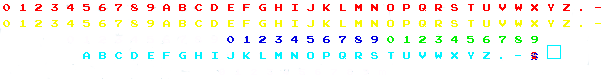
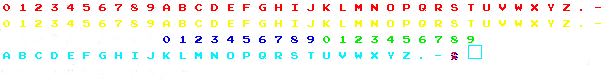
letras

Changed region(s): [[0.0, 0.557, 0.9223, 0.7595], [0.2678, 0.4557, 0.8926, 0.557], [0.8926, 0.557, 0.9223, 0.5823]]

diff --git a/3C1V_Donkey_Kong/DonkeyKong_Solution/Source/SceneLevel4.cpp b/3C1V_Donkey_Kong/DonkeyKong_Solution/Source/SceneLevel4.cpp
@@ -99,8 +99,12 @@ bool SceneLevel4::Start()
 	
 	App->enemies->AddEnemy(Enemy_Type::LLAMA, 370, 320);
 
-	char lookupTable[] = { "0123456789abcdefghijklmnopqrstuvwxyz" };
-	scoreFont = App->fonts->Load("Assets/Fonts/letras.png", lookupTable, 2);
+	char lookupTable_r[] = { "0123456789ABCDEFGHIJKLMNOPQRSTUVWXYZ.-" };
+	char lookupTable_b[] = { "0123456789" };
+	char lookupTable_a[] = { "0123456789" };
+	rojas = App->fonts->Load("Assets/letras_rojas.png", lookupTable_r, 1);
+	blancas = App->fonts->Load("Assets/letras_blancas.png", lookupTable_b, 1);
+	amarillas = App->fonts->Load("Assets/letras_amarillas.png", lookupTable_a, 1);
 
 	return ret;
 }
@@ -157,9 +161,9 @@ update_status SceneLevel4::PostUpdate()
 	sprintf_s(scoreText, 10, "%7d", score);
 
 	// TODO 3: Blit the text of the score in at the bottom of the screen
-	App->fonts->BlitText(58, 248, scoreFont, scoreText);
+	//App->fonts->BlitText(8, 8, scoreFont, scoreText);
 
-	App->fonts->BlitText(150, 248, scoreFont, "this is just a font test");
+	//App->fonts->BlitText(8, 8, scoreFont, "a");
 	return update_status::UPDATE_CONTINUE;
 }
 

diff --git a/3C1V_Donkey_Kong/DonkeyKong_Solution/Source/SceneLevel4.h b/3C1V_Donkey_Kong/DonkeyKong_Solution/Source/SceneLevel4.h
@@ -56,7 +56,9 @@ private:
 
 	// Font score index
 	uint score = 000;
-	int scoreFont = -1;
+	int rojas = -1;
+	int blancas = -1;
+	int amarillas = -1;
 	char scoreText[10] = { "\0" };
 
 	int cont_win_lose = 0;

diff --git a/3C1V_Donkey_Kong/DonkeyKong_Solution/Source/ModulePlayer.cpp b/3C1V_Donkey_Kong/DonkeyKong_Solution/Source/ModulePlayer.cpp
@@ -262,6 +262,7 @@ update_status ModulePlayer::Update()
 
 
 	}
+	App->
 	if ((App->input->keys[SDL_SCANCODE_A] == KEY_STATE::KEY_REPEAT) && canLateralMov == true)
 	{
 		lastanimation = &mart_iz;
